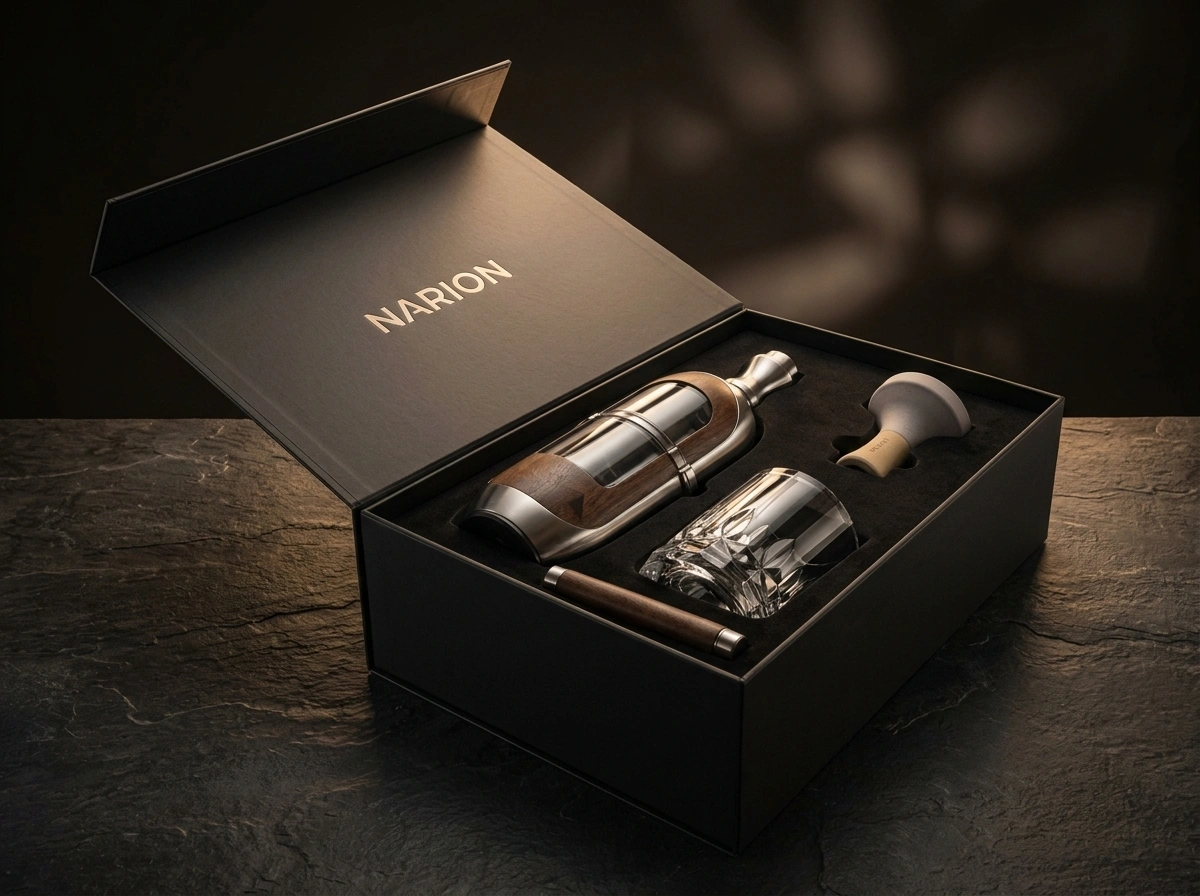
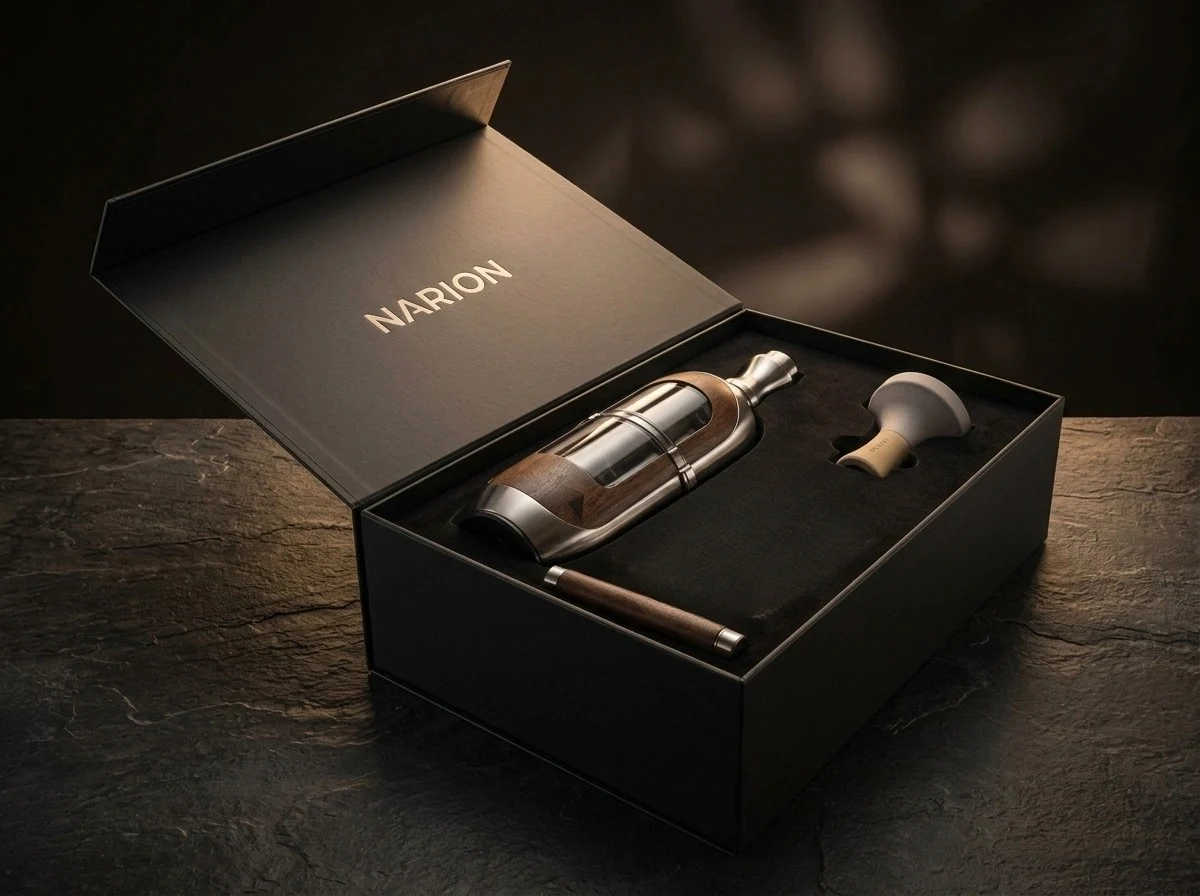
KOZA: cam/kristal hazne yok — hazne kristali satırı ve kutu metnindeki kristal hazne ifadesi kaldırıldı; ortak hediye kutusu görselinden kristal parça rötuşla çıkarıldı
- tr/en/ar/ru narion-koza.html: 'Hazne Kristali' satırı silindi; kutu yatak metni: gövde, marpuç takımı ve Smart HMD
- uc-boyut (4 dil) + viewer: KOZA Şişe/Hazne özeti '750 ml' (Tritan ibaresi yok)
- gorsel/kutu-luks-sunum.webp: kesme kristal parça kaldırıldı

Changed region(s): [[0.5242, 0.5, 0.7092, 0.6875]]

diff --git a/ru/narion-koza.html b/ru/narion-koza.html
@@ -144,10 +144,6 @@
               <td style="color:var(--text-main)">Массив ореха, нержавеющая сталь AISI 304, кристалл Eastman Tritan™</td>
             </tr>
             <tr>
-              <td>Кристалл колбы</td>
-              <td style="color:var(--gold-light)">Ударопрочный кристалл Eastman Tritan™ (без BPA)</td>
-            </tr>
-            <tr>
               <td>Тип соединения</td>
               <td style="font-family:var(--f-mono);color:var(--gold-light)">Запатентованный байонетный быстрозамок</td>
             </tr>
@@ -204,7 +200,7 @@
             </li>
             <li style="display:flex;gap:12px;align-items:flex-start">
               <span style="color:var(--gold);font-weight:700">✓</span>
-              <span><b>Ложемент лазерной резки с ЧПУ:</b>Отдельные гнёзда в пене для корпуса KOZA, его ударопрочной кристальной колбы и Smart HMD.</span>
+              <span><b>Ложемент лазерной резки с ЧПУ:</b>Отдельные гнёзда в пене для корпуса KOZA, комплекта шланга и Smart HMD.</span>
             </li>
             <li style="display:flex;gap:12px;align-items:flex-start">
               <span style="color:var(--gold);font-weight:700">✓</span>

diff --git a/ar/narion-koza.html b/ar/narion-koza.html
@@ -144,10 +144,6 @@
               <td style="color:var(--text-main)">خشب جوز صلب، فولاذ مقاوم للصدأ AISI 304، كريستال Eastman Tritan™</td>
             </tr>
             <tr>
-              <td>كريستال القاعدة</td>
-              <td style="color:var(--gold-light)">كريستال Eastman Tritan™ المقاوم للصدمات (خالٍ من BPA)</td>
-            </tr>
-            <tr>
               <td>نوع الوصلة</td>
               <td style="font-family:var(--f-mono);color:var(--gold-light)">قفل بايونيت سريع مسجّل كبراءة اختراع</td>
             </tr>
@@ -204,7 +200,7 @@
             </li>
             <li style="display:flex;gap:12px;align-items:flex-start">
               <span style="color:var(--gold);font-weight:700">✓</span>
-              <span><b>مهد مقطوع بالليزر على CNC:</b>مقاعد إسفنجية مخصّصة لهيكل KOZA ولقاعدته الكريستالية المقاومة للصدمات ولـ Smart HMD.</span>
+              <span><b>مهد مقطوع بالليزر على CNC:</b>مقاعد إسفنجية مخصّصة لهيكل KOZA ولطقم الخرطوم ولـ Smart HMD.</span>
             </li>
             <li style="display:flex;gap:12px;align-items:flex-start">
               <span style="color:var(--gold);font-weight:700">✓</span>

diff --git a/ru/uc-boyut.html b/ru/uc-boyut.html
@@ -743,7 +743,7 @@ footer p{margin:0 0 10px; color:var(--muted); font-size:14px; max-width:44ch; li
           <div class="summary-row"><span class="k">Деревянная деталь</span><span class="v" id="sum-ahsap">Американский орех</span></div>
           <div class="summary-row"><span class="k">Общая высота</span><span class="v" id="sum-yuk">420 mm</span></div>
           <div class="summary-row"><span class="k">Материал корпуса</span><span class="v" id="sum-malzeme">Нержавеющая сталь AISI 304</span></div>
-          <div class="summary-row"><span class="k">Колба / резервуар</span><span class="v" id="sum-sise">750 мл · Tritan</span></div>
+          <div class="summary-row"><span class="k">Колба / резервуар</span><span class="v" id="sum-sise">750 мл</span></div>
           <div class="summary-row"><span class="k">Диаметр основания</span><span class="v" id="sum-taban">Ø150 мм (широкое устойчивое основание)</span></div>
           <div class="summary-row"><span class="k">Тип соединения</span><span class="v">Байонет 45°</span></div>
           <div class="summary-row"><span class="k">Чаша</span><span class="v">NARION Smart HMD (стандарт)</span></div>

diff --git a/ar/uc-boyut.html b/ar/uc-boyut.html
@@ -743,7 +743,7 @@ footer p{margin:0 0 10px; color:var(--muted); font-size:14px; max-width:44ch; li
           <div class="summary-row"><span class="k">تفصيل الخشب</span><span class="v" id="sum-ahsap">جوز أمريكي</span></div>
           <div class="summary-row"><span class="k">الارتفاع الكلي</span><span class="v" id="sum-yuk">420 mm</span></div>
           <div class="summary-row"><span class="k">مادة الهيكل</span><span class="v" id="sum-malzeme">فولاذ مقاوم للصدأ AISI 304</span></div>
-          <div class="summary-row"><span class="k">القاعدة / الخزان</span><span class="v" id="sum-sise">750 مل · Tritan</span></div>
+          <div class="summary-row"><span class="k">القاعدة / الخزان</span><span class="v" id="sum-sise">750 مل</span></div>
           <div class="summary-row"><span class="k">قطر القاعدة</span><span class="v" id="sum-taban">Ø150 ملم (قاعدة عريضة ثابتة)</span></div>
           <div class="summary-row"><span class="k">نوع الوصلة</span><span class="v">بايونيت 45°</span></div>
           <div class="summary-row"><span class="k">الرأس</span><span class="v">NARION Smart HMD (قياسي)</span></div>

diff --git a/tr/narion-koza.html b/tr/narion-koza.html
@@ -148,10 +148,6 @@
               <td style="color:var(--text-main)">Masif Ceviz Ahşap, AISI 304 Paslanmaz Çelik, Eastman Tritan™ Kristal</td>
             </tr>
             <tr>
-              <td>Hazne Kristali</td>
-              <td style="color:var(--gold-light)">Eastman Tritan™ Darbeye Dayanıklı Kristal (BPA Free)</td>
-            </tr>
-            <tr>
               <td>Bağlantı Türü</td>
               <td style="font-family:var(--f-mono);color:var(--gold-light)">Patentli Bayonet Standart Hızlı Kilit</td>
             </tr>
@@ -216,7 +212,7 @@
             </li>
             <li style="display:flex;gap:12px;align-items:flex-start">
               <span style="color:var(--gold);font-weight:700">✓</span>
-              <span><b>CNC Lazer Kesim Yatak:</b> KOZA gövdesi, kırılmaya dayanıklı kristal haznesi ve Smart HMD için özel sünger yuvalar.</span>
+              <span><b>CNC Lazer Kesim Yatak:</b> KOZA gövdesi, marpuç takımı ve Smart HMD için özel sünger yuvalar.</span>
             </li>
             <li style="display:flex;gap:12px;align-items:flex-start">
               <span style="color:var(--gold);font-weight:700">✓</span>

diff --git a/en/narion-koza.html b/en/narion-koza.html
@@ -144,10 +144,6 @@
               <td style="color:var(--text-main)">Solid walnut, AISI 304 stainless steel, Eastman Tritan™ crystal</td>
             </tr>
             <tr>
-              <td>Base Crystal</td>
-              <td style="color:var(--gold-light)">Eastman Tritan™ impact-resistant crystal (BPA-free)</td>
-            </tr>
-            <tr>
               <td>Connection Type</td>
               <td style="font-family:var(--f-mono);color:var(--gold-light)">Patented Bayonet Quick-Lock Standard</td>
             </tr>
@@ -204,7 +200,7 @@
             </li>
             <li style="display:flex;gap:12px;align-items:flex-start">
               <span style="color:var(--gold);font-weight:700">✓</span>
-              <span><b>CNC Laser-Cut Cradle:</b>Dedicated foam cradles for the KOZA body, its impact-resistant crystal base and the Smart HMD.</span>
+              <span><b>CNC Laser-Cut Cradle:</b>Dedicated foam cradles for the KOZA body, the hose set and the Smart HMD.</span>
             </li>
             <li style="display:flex;gap:12px;align-items:flex-start">
               <span style="color:var(--gold);font-weight:700">✓</span>

diff --git a/tr/uc-boyut.html b/tr/uc-boyut.html
@@ -743,7 +743,7 @@ footer p{margin:0 0 10px; color:var(--muted); font-size:14px; max-width:44ch; li
           <div class="summary-row"><span class="k">Ahşap Detay</span><span class="v" id="sum-ahsap">Amerikan Ceviz</span></div>
           <div class="summary-row"><span class="k">Toplam Yükseklik</span><span class="v" id="sum-yuk">420 mm</span></div>
           <div class="summary-row"><span class="k">Gövde Malzemesi</span><span class="v" id="sum-malzeme">AISI 304 Paslanmaz Çelik</span></div>
-          <div class="summary-row"><span class="k">Şişe / Hazne</span><span class="v" id="sum-sise">750 ml · Tritan</span></div>
+          <div class="summary-row"><span class="k">Şişe / Hazne</span><span class="v" id="sum-sise">750 ml</span></div>
           <div class="summary-row"><span class="k">Taban Çapı</span><span class="v" id="sum-taban">Ø150 mm (Geniş Sarsılmaz Denge)</span></div>
           <div class="summary-row"><span class="k">Bağlantı Tipi</span><span class="v">45° Bayonet</span></div>
           <div class="summary-row"><span class="k">Lüle</span><span class="v">NARION Smart HMD (standart)</span></div>

diff --git a/en/uc-boyut.html b/en/uc-boyut.html
@@ -743,7 +743,7 @@ footer p{margin:0 0 10px; color:var(--muted); font-size:14px; max-width:44ch; li
           <div class="summary-row"><span class="k">Wood detail</span><span class="v" id="sum-ahsap">American walnut</span></div>
           <div class="summary-row"><span class="k">Overall Height</span><span class="v" id="sum-yuk">420 mm</span></div>
           <div class="summary-row"><span class="k">Body material</span><span class="v" id="sum-malzeme">AISI 304 stainless steel</span></div>
-          <div class="summary-row"><span class="k">Base / reservoir</span><span class="v" id="sum-sise">750 ml · Tritan</span></div>
+          <div class="summary-row"><span class="k">Base / reservoir</span><span class="v" id="sum-sise">750 ml</span></div>
           <div class="summary-row"><span class="k">Base Diameter</span><span class="v" id="sum-taban">Ø150 mm (wide, stable footprint)</span></div>
           <div class="summary-row"><span class="k">Connection type</span><span class="v">45° Bayonet</span></div>
           <div class="summary-row"><span class="k">Bowl</span><span class="v">NARION Smart HMD (standard)</span></div>

diff --git a/gorsel/3d/uc-boyut-viewer.js b/gorsel/3d/uc-boyut-viewer.js
@@ -18,7 +18,7 @@
       name: 'KOZA',
       code: 'NARION KOZA · LOKOMOTİF SERİ',
       height: '420 mm',
-      sise: '750 ml · Tritan',
+      sise: '750 ml',
       taban: 'Ø150 mm (Geniş Sarsılmaz Denge)',
       malzeme: 'AISI 304 Paslanmaz Çelik & Masif Ceviz',
       hasWood: true
